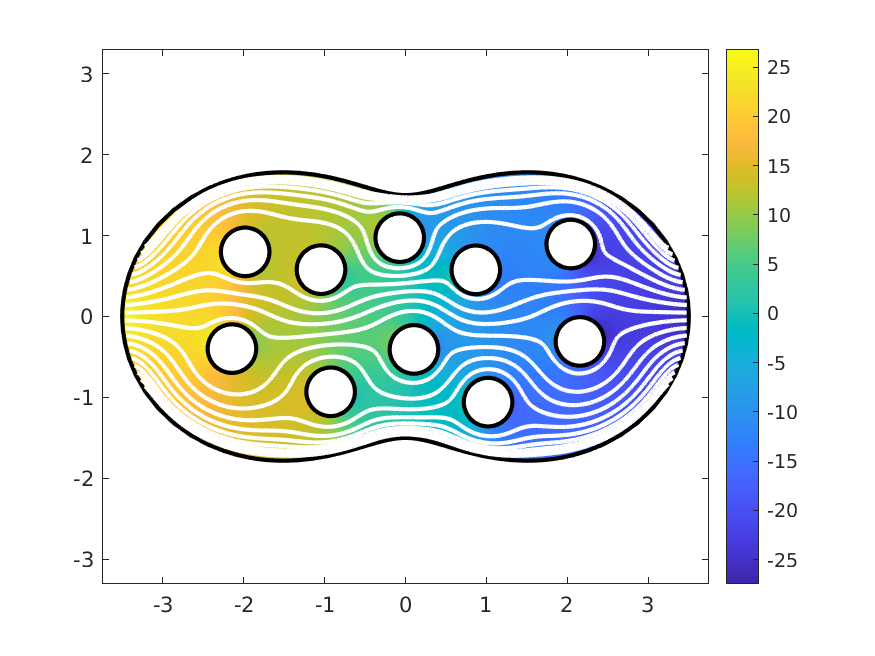
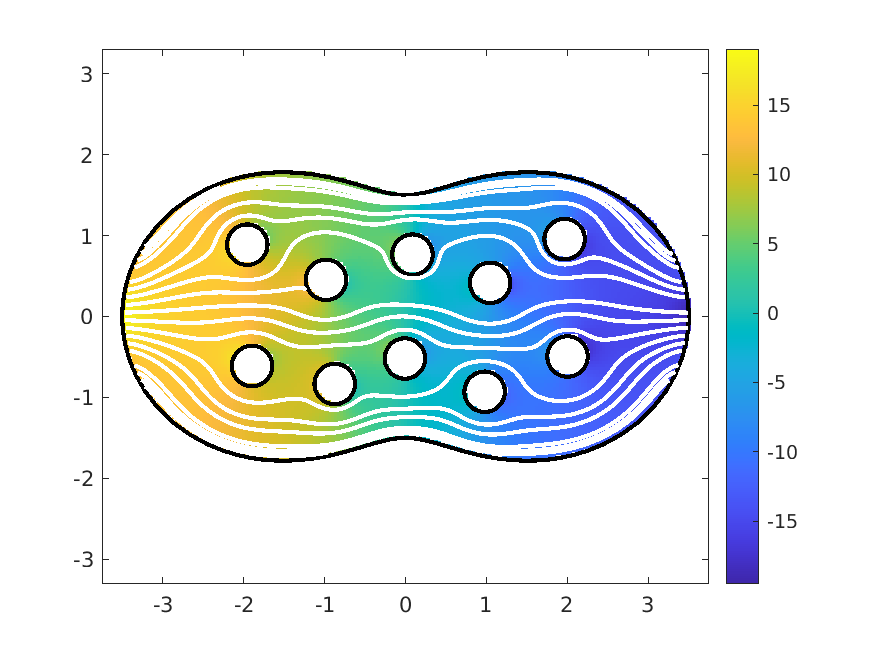
small tweaks to guide

diff --git a/chunkie/guide/guide_simplebvps.m b/chunkie/guide/guide_simplebvps.m
@@ -103,17 +103,17 @@ ctr = [0;0];
 chnkrouter = chunkerfunc(@(t) chnk.curves.bymode(t,modes,ctr));
 
 % inner boundaries are circles (reverse them to get orientations right)
-chnkrcirc = chunkerfunc(@(t) chnk.curves.bymode(t,0.3,[0;0]));
+chnkrcirc = chunkerfunc(@(t) chnk.curves.bymode(t,0.25,[0;0]));
 chnkrcirc = reverse(chnkrcirc);
-centers = [ [-2:2, -2:2]; [(0.7 + 0.25*(-1).^(-2:2)) , ...
-    (-0.7 + 0.25*(-1).^(-2:2))]];
+centers = [ [-2:2, -2:2]; [(0.7 + 0.2*(-1).^(-2:2)) , ...
+    (-0.7 + 0.2*(-1).^(-2:2))]];
 centers = centers + 0.1*randn(size(centers));
 
 % make a boundary out of the outer boundary and several shifted circles
 chnkrlist = [chnkrouter];
 for j = 1:size(centers,2)
     chnkr1 = chnkrcirc;
-    chnkr1.r(:,:) = chnkr1.r(:,:) + centers(:,j);
+    chnkr1 = chnkr1.move([0;0],centers(:,j));
     chnkrlist = [chnkrlist chnkr1];
 end
 chnkr = merge(chnkrlist);
@@ -127,25 +127,23 @@ rhsout = f(chnkrouter.r(:,:)); rhsout = rhsout(:);
 rhs = [rhsout; zeros(2*10*chnkrcirc.npt,1)];
 
 % define the combined layer Stokes representation kernel
+c = -1; % coefficient of S
 mu = 1; % stokes viscosity parameter
-kerndvel = kernel('stok','dvel',mu);
-kernsvel = kernel('stok','svel',mu);
+kerncvel = kernel('stok','dvel',mu) + c*kernel('stok','svel',mu);
 
 % get a matrix discretization of the boundary integral equation 
-dmat = chunkermat(chnkr,kerndvel); 
-smat = chunkermat(chnkr,kernsvel);
+cmat = chunkermat(chnkr,kerncvel); 
 
 % add the identity term and nullspace correction
-c = -1;
 W = normonesmat(chnkr);
-sysmat = dmat + c*smat - 0.5*eye(2*chnkr.npt) + W;
+sysmat = cmat - 0.5*eye(2*chnkr.npt) + W;
 
 % solve the system 
 sigma = gmres(sysmat,rhs,[],1e-10,100);
 
 % grid for plotting solution (in exterior)
-x1 = linspace(-3.75,3.75,300);
-y1 = linspace(-2,2,300);
+x1 = linspace(-3.75,3.75,200);
+y1 = linspace(-2,2,100);
 [xx,yy] = meshgrid(x1,y1);
 targs = [xx(:).'; yy(:).'];
 in = chunkerinterior(chnkr,{x1,y1});
@@ -153,16 +151,12 @@ uu = nan([2,size(xx)]);
 pres = nan(size(xx));
 
 % same kernel to evaluate as on boundary
-uu(:,in) = reshape(chunkerkerneval(chnkr,kerndvel,sigma,targs(:,in)),2,nnz(in));
-uu(:,in) = uu(:,in) + c*reshape(chunkerkerneval(chnkr,kernsvel,sigma,targs(:,in)),2,nnz(in));
-uu(:,in) = uu(:,in) + uconst;
+uu(:,in) = reshape(chunkerkerneval(chnkr,kerncvel,sigma,targs(:,in)),2,nnz(in));
 
 % can evaluate the associated pressure
-kerndpres = kernel('stok','dpres',mu);
-kernspres = kernel('stok','spres',mu);
+kerncpres = kernel('stok','dpres',mu) + c*kernel('stok','spres',mu);
 opts = []; opts.eps = 1e-3;
-pres(in) = chunkerkerneval(chnkr,kerndpres,sigma,targs(:,in),opts);
-pres(in) = pres(in) + c*chunkerkerneval(chnkr,kernspres,sigma,targs(:,in),opts);
+pres(in) = chunkerkerneval(chnkr,kerncpres,sigma,targs(:,in),opts);
 
 % plot
 figure(1); clf
